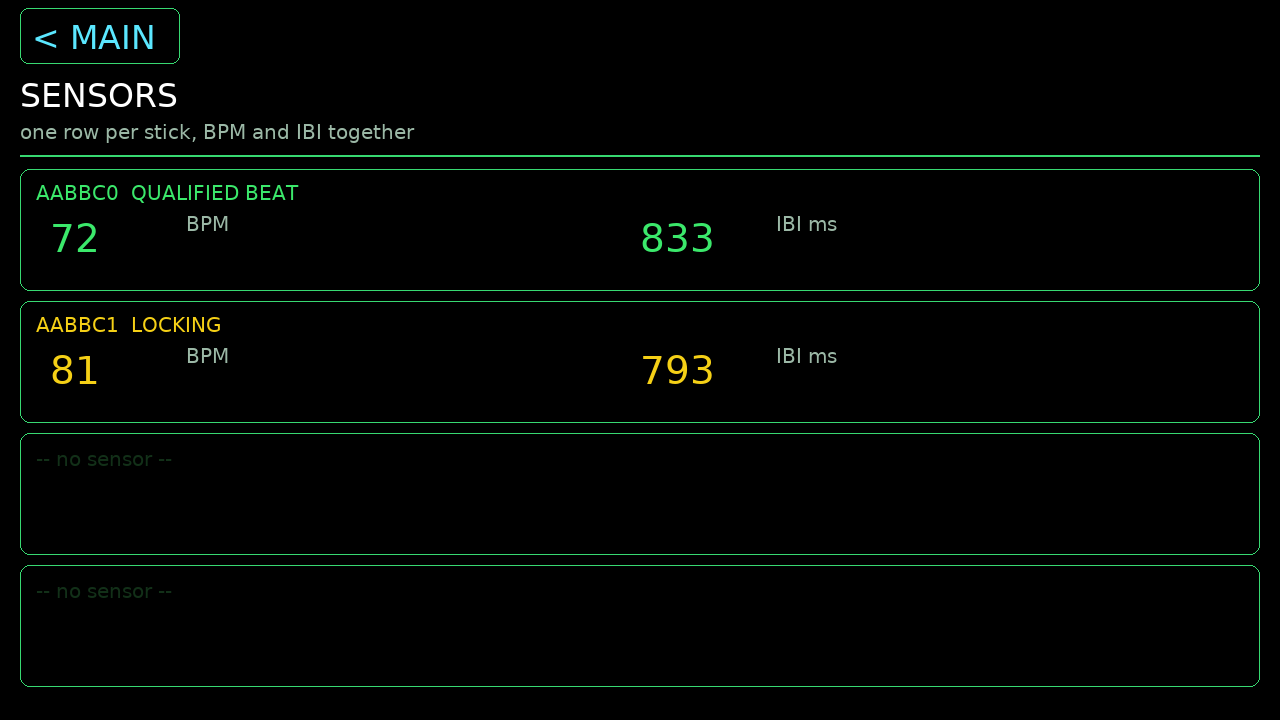
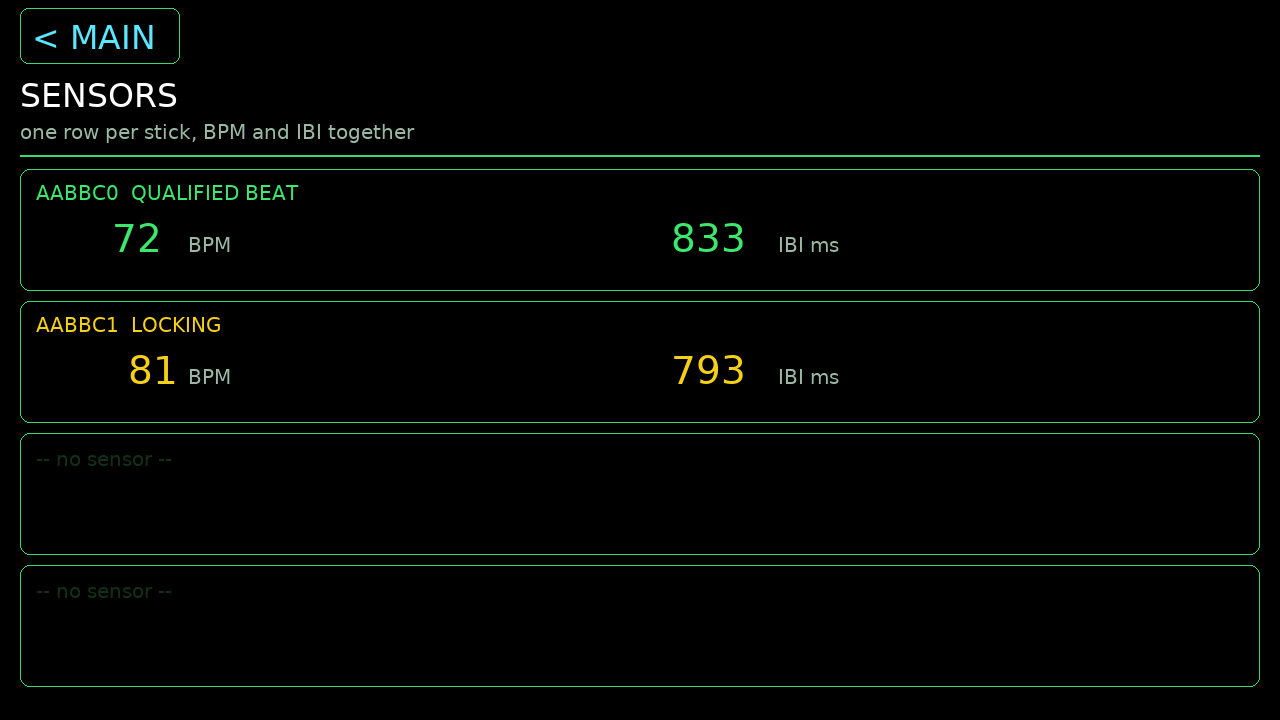
Right-align sensor values so the unit label stops floating
Values were left-aligned with the unit parked where a four-digit number would
have ended, so "72" left a visible hole before "BPM". Tracking the real width
instead would make the unit jump every time a value gained or lost a digit.
Right-aligning the value against a fixed edge fixes both: the unit never moves
and always sits tight against the number.

diff --git a/pulselink_tab5.py b/pulselink_tab5.py
@@ -1365,14 +1365,20 @@ def sensors_draw(now):
         vy = y + 10 + th(SEN_F_LBL) + 4
         bpm = str(st.bpm) if (live and st.bpm) else "--"
         ibi = str(st.ibi) if (live and st.ibi) else "--"
+        # Values are RIGHT-aligned to a fixed edge and the unit sits just past
+        # it. Left-aligning them meant the unit had to be parked where a
+        # four-digit number would end, so "72" left a visible hole - and
+        # tracking the actual width instead would make the unit jitter every
+        # time the value gained or lost a digit.
+        vw = tw("8888", SEN_F_VAL)
+        ly = vy + th(SEN_F_VAL) - th(SEN_F_LBL) - 4      # sit on the baseline
+        xb = L + 30 + vw
+        xi = L + (W - 2 * L) // 2 + vw
         if changed("sen%dv" % i, (bpm, ibi, col)):
-            field("sen%dbp" % i, L + 30, vy, bpm, SEN_F_VAL, col, BG)
-            field("sen%dbl" % i, L + 30 + tw("8888", SEN_F_VAL) + 12, vy,
-                  "BPM", SEN_F_LBL, LABEL, BG)
-            xi = W // 2
-            field("sen%dib" % i, xi, vy, ibi, SEN_F_VAL, col, BG)
-            field("sen%dil" % i, xi + tw("8888", SEN_F_VAL) + 12, vy,
-                  "IBI ms", SEN_F_LBL, LABEL, BG)
+            field("sen%dbp" % i, 0, vy, bpm, SEN_F_VAL, col, BG, right=xb)
+            field("sen%dbl" % i, xb + 14, ly, "BPM", SEN_F_LBL, LABEL, BG)
+            field("sen%dib" % i, 0, vy, ibi, SEN_F_VAL, col, BG, right=xi)
+            field("sen%dil" % i, xi + 14, ly, "IBI ms", SEN_F_LBL, LABEL, BG)
 
 register("sensors", sensors_enter, sensors_draw)
 
